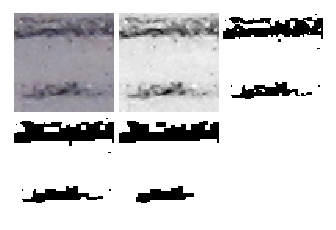
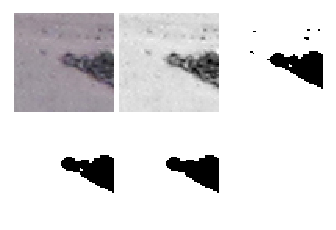
rework image processing to strip all black or all white images

diff --git a/process_images/nrand_process.py b/process_images/nrand_process.py
@@ -5,7 +5,7 @@ from skimage import exposure
 import numpy as np
 import os
 
-# np.random.seed(seed=21548)
+np.random.seed(seed=21548)
 
 
 def rgb2gray(rgb):
@@ -62,28 +62,26 @@ for i, cropped_slice in enumerate(cropped_slices):
     # convert to grayscale
     gray = rgb2gray(raw)
 
-    # rescale
-    # p2, p98 = np.percentile(gray, (2, 98))
-    # img_rescale = exposure.rescale_intensity(gray, in_range=(p2, p98))
-
     # binarize
     thresh = 120 # 255 * 0.9
-    bw = (gray > thresh)
+    bw = np.array((gray > thresh)).astype(np.bool)
 
-    # # dilate, erode, etc
-    dil_p = ndimage.binary_closing(1*np.invert(bw), structure=np.ones((3,3))).astype(np.int)
-    dil = np.invert(dil_p)
+    # dilate, erode, etc
+    dil = ndimage.binary_closing((bw), structure=np.ones((3,3)))
 
-    ero_p = ndimage.binary_opening(1*np.invert(dil), structure=np.ones((3,3))).astype(np.int)
-    ero = np.invert(ero_p)
+    ero = ndimage.binary_opening(dil, structure=np.ones((3,3)))
 
     clean = ero
 
-    steps = [cut(raw, steps_idx, cut_dim), cut(gray, steps_idx, cut_dim), \
-             cut(bw, steps_idx, cut_dim), cut(dil, steps_idx, cut_dim), cut(ero, steps_idx, cut_dim)]
+    steps = [cut(raw, steps_idx, cut_dim), cut(gray, steps_idx, cut_dim), cut(bw, steps_idx, cut_dim), \
+             cut(dil, steps_idx, cut_dim), cut(ero, steps_idx, cut_dim)]
     steps_fig = group_plot(steps)
     plt.savefig('out/steps_fig.png', bbox_inches='tight')
     plt.close(steps_fig)
+
+    plt.hist(cut(clean, steps_idx, cut_dim).flatten())
+    plt.savefig('out/steps_hist.png', bbox_inches='tight')
+    plt.close()
 
     for j in np.arange(n_cuts):
         
@@ -92,22 +90,16 @@ for i, cropped_slice in enumerate(cropped_slices):
             rand_idx = np.array([np.random.randint(0, rx), np.random.randint(0, ry)])
             rand_cut = cut(clean, rand_idx, cut_dim)
 
-            # print(rand_cut>0)
-
-            plt.hist(rand_cut)
-            plt.show()
-
             print(np.count_nonzero(rand_cut))
             print(rand_cut.size)
-            perc_blk = np.count_nonzero(rand_cut) / rand_cut.size
+            perc_blk = np.count_nonzero(np.invert(rand_cut)) / rand_cut.size
             print(perc_blk)
             if perc_blk < 0.10 or perc_blk > 0.90:
                 saved = False
             else:                
                 lab = '%04d.png' % j
-                misc.imsave(os.path.join('cut_images', lab), rand_cut)
+                misc.imsave(os.path.join('cut_images', lab), rand_cut.astype(np.int))
                 saved = True
-            saved=True
 
         if j % 5 == 0:
-            print('cutting image {0} of {1}'.format(j, n_cuts))
+            print('cutting image {0} of {1}'.format(j+1, n_cuts))
